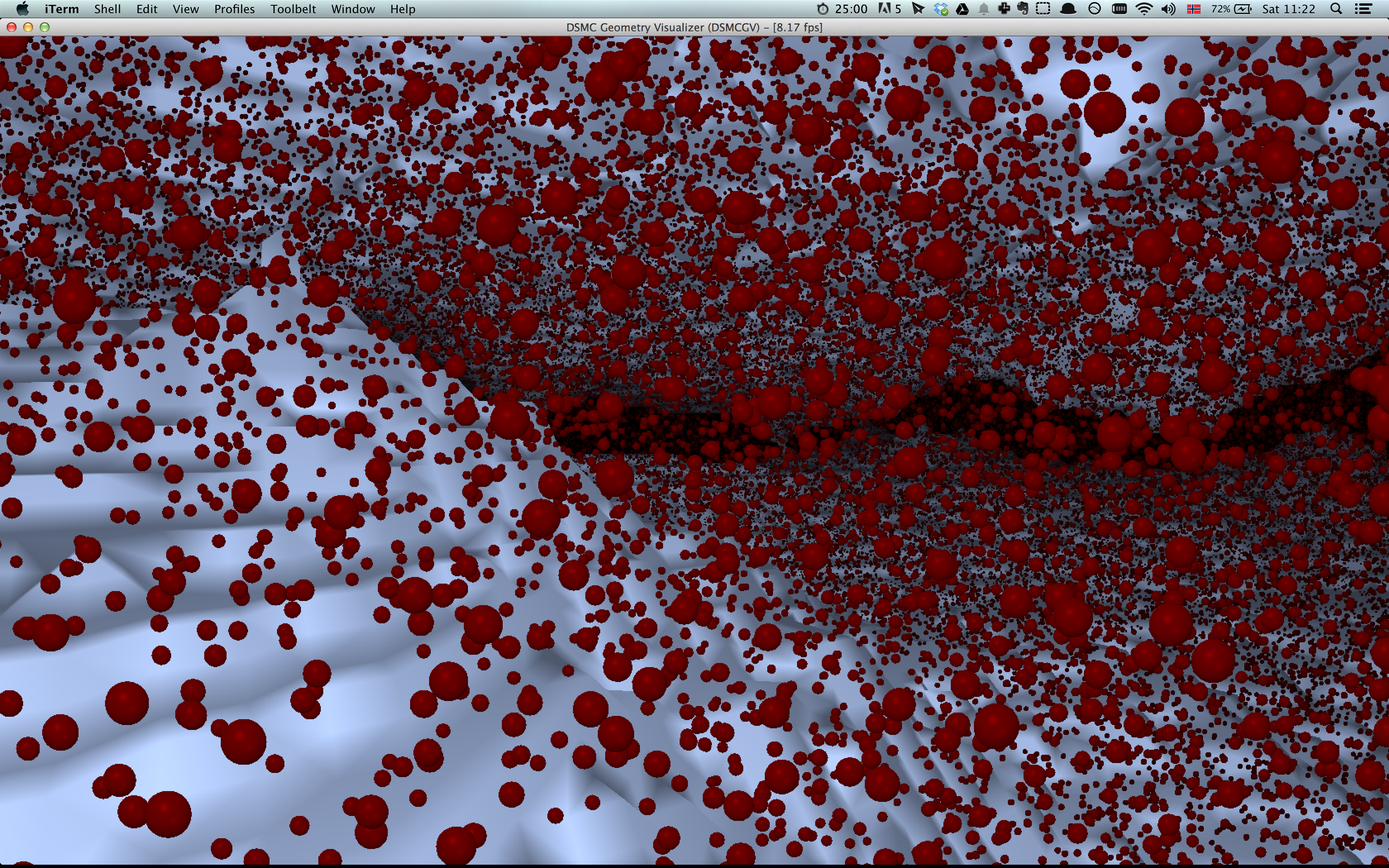
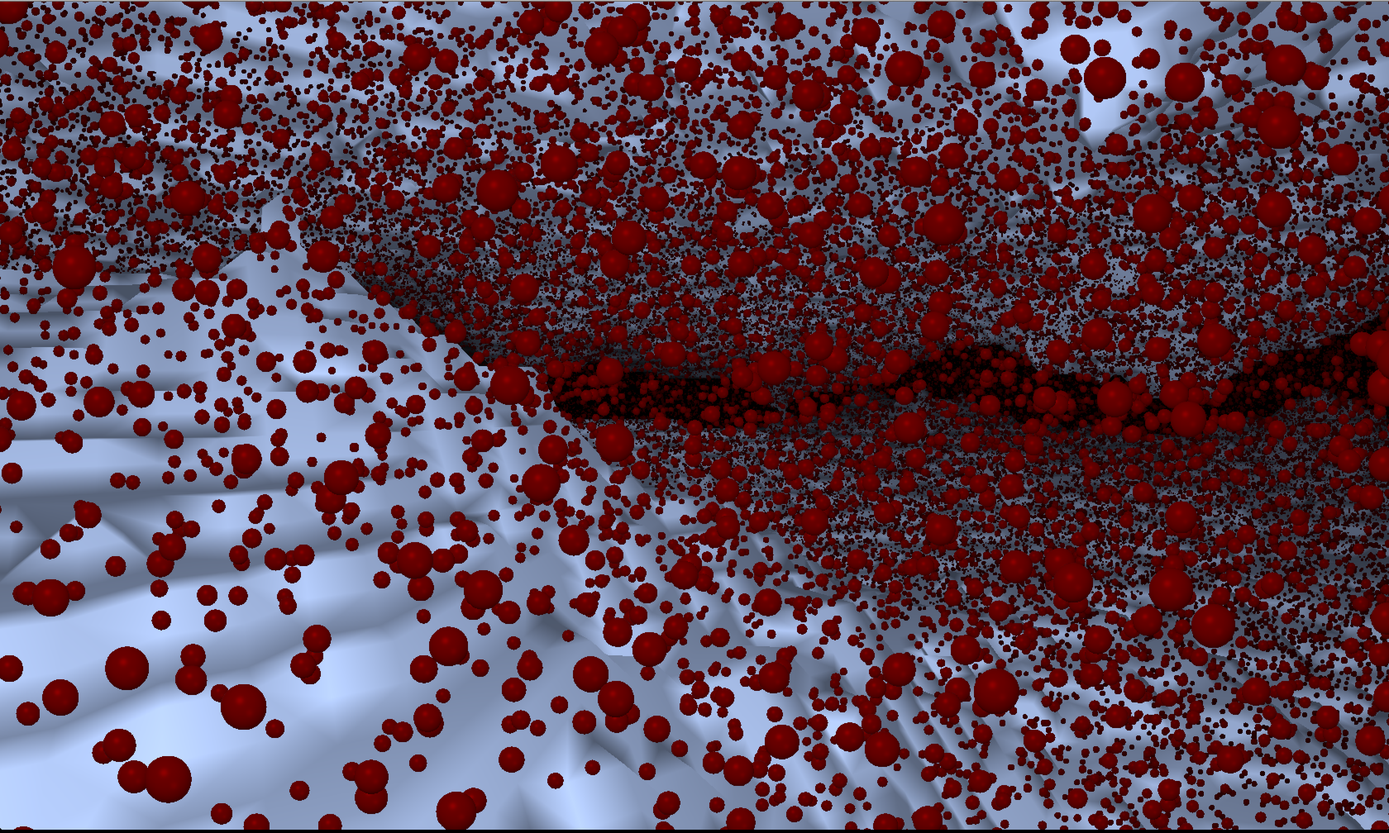
fuck me

diff --git a/visualization/gallery.tex b/visualization/gallery.tex
@@ -1,10 +1,20 @@
 \section{Gallery}
 \label{sec:vis_gallery}
+A picture is worth a thousand words. In this section we will show some screen shots from the visualization tool we have made. The DSMC visualizer can both render the state of the system while it integrates the system forward in time - a live visualization. This makes it easier to find interesting regions in the system, or is great as a show-off case.
 
 \begin{figure}[htb]
 \begin{center}
-\includegraphics[width=0.8\textwidth, trim=0cm 0cm 0cm 0cm, clip]{visualization/figures/marching_cubes_fracture.png}
+\includegraphics[width=\textwidth, trim=0cm 0cm 0cm 0cm, clip]{visualization/figures/marching_cubes_fracture.png}
 \end{center}
-\caption{A cube consisting of eight vertices. Given that each vertex can have a value smaller or larger than some given iso-value, the cube has has $2^8=256$ different combinations. This number can, as we see here, be reduced to 15 due to symmetries. An iso-surface on a scalar field can then be generated as renderable triangles with this technique. Image from \url{http://en.wikipedia.org/wiki/File:MarchingCubes.svg}, accessed 20 March, 2014.}
+\caption{Here we see a live simulation on a 2013 Macbook Pro. One million DSMC particles in a fracture created with the diamond-square algorithm (a thanks to Filip Sund who implemented this algorithm). With a good frame rate it is easy to study flow in any region of the system. }
 \label{fig:vis_marching_cubes}
 \end{figure}
+
+\begin{figure}[htb]
+\begin{center}
+\includegraphics[width=\textwidth, trim=0cm 0cm 0cm 0cm, clip]{visualization/figures/marching_cubes_spheres_2.png}
+\end{center}
+\caption{This is a live simulation of four million DSMC particles in a system consisting of packed spheres.}
+\label{fig:vis_marching_cubes_2}
+\end{figure}
+
